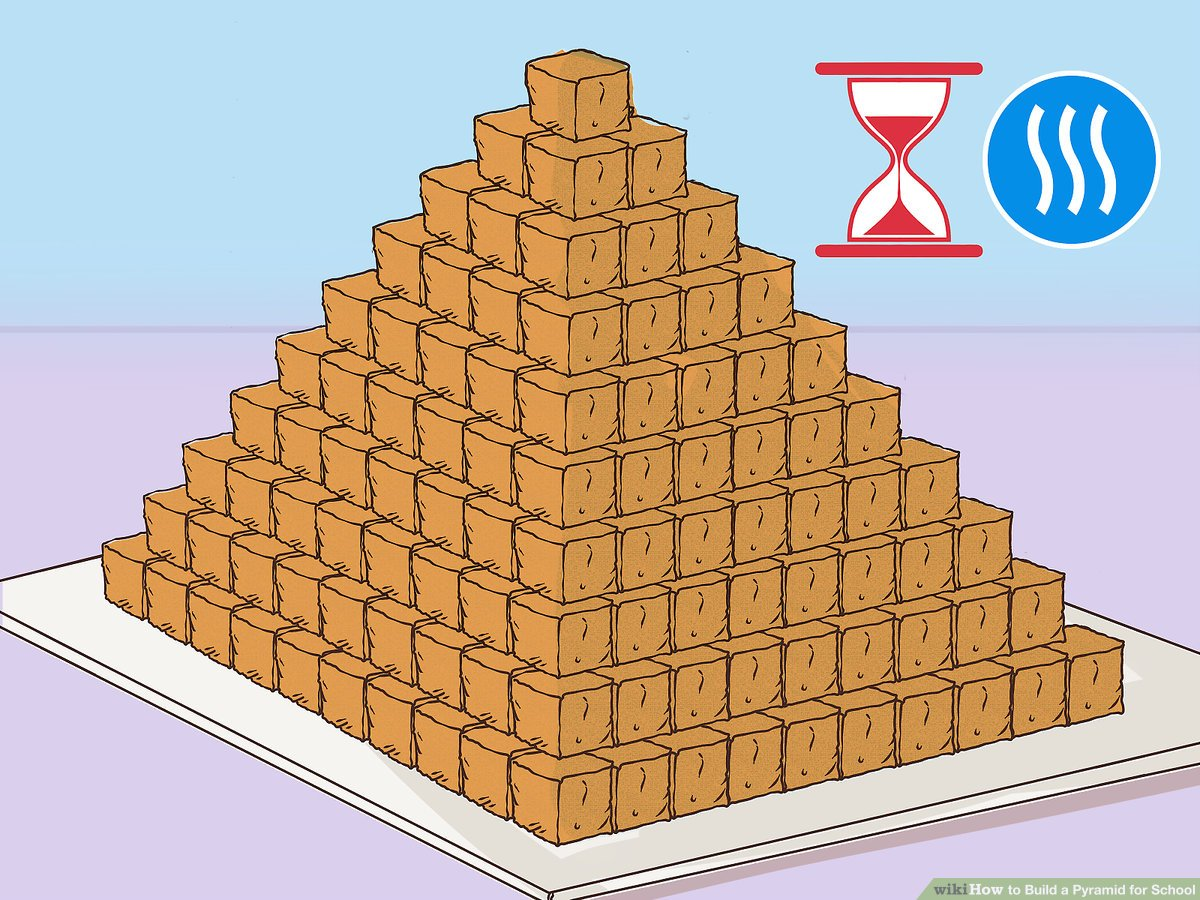
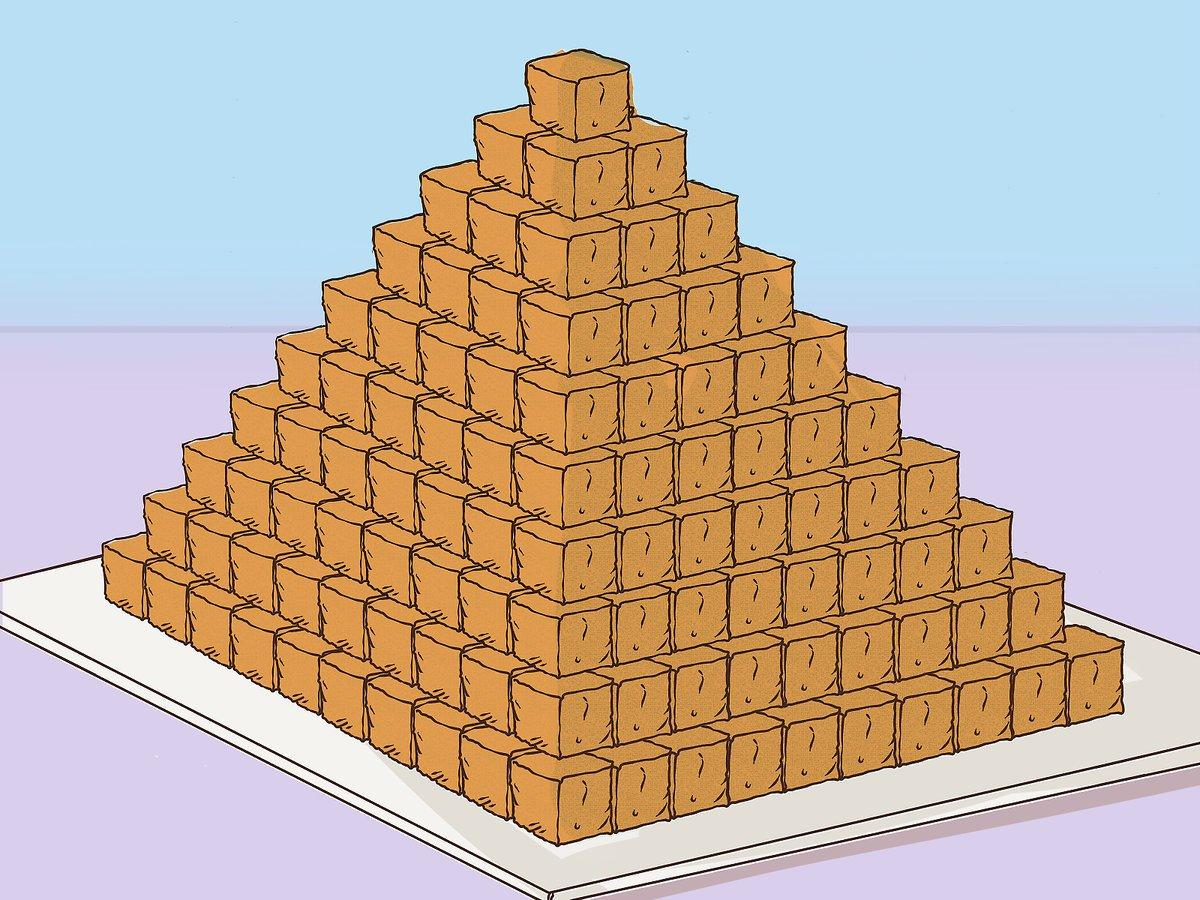
fixed correction function

diff --git a/README.md b/README.md
@@ -242,12 +242,13 @@ Use this function to check your result:
 
 ```python
 def pyramidtest():
-    result = pyramid_mass(100, 100, 10)
+    from math import isclose
+    result = pyramid_mass(3, 10, 10)
     if  result == None:
         print(f"No result.")
     elif isinstance(result, (int, float)):
-        print(f"Expected 62181700, got {result}")
-        if int(result) == 33835000:
+        print(f"Expected 50000, got {result}")
+        if isclose(int(result), 50000):
             print("OK!")
 ```
 
